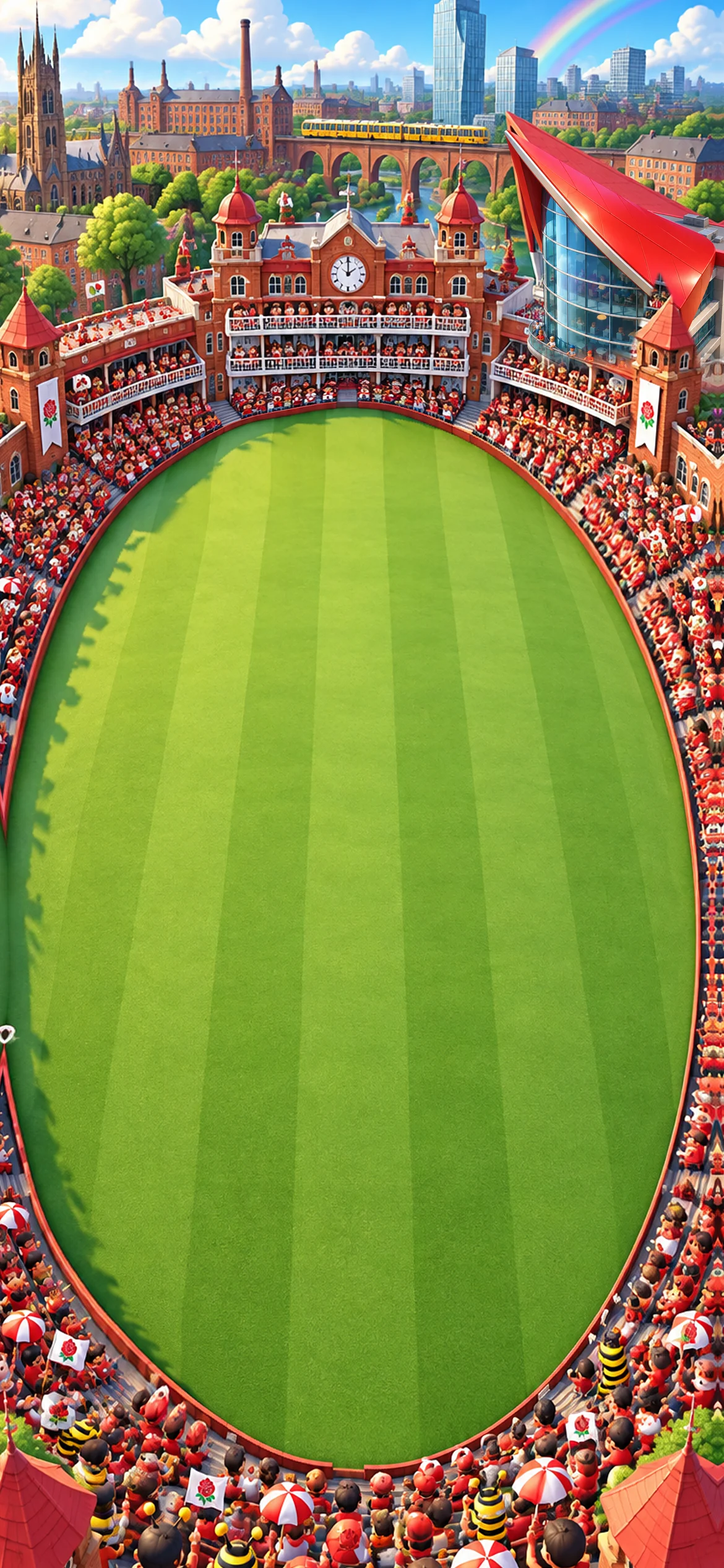
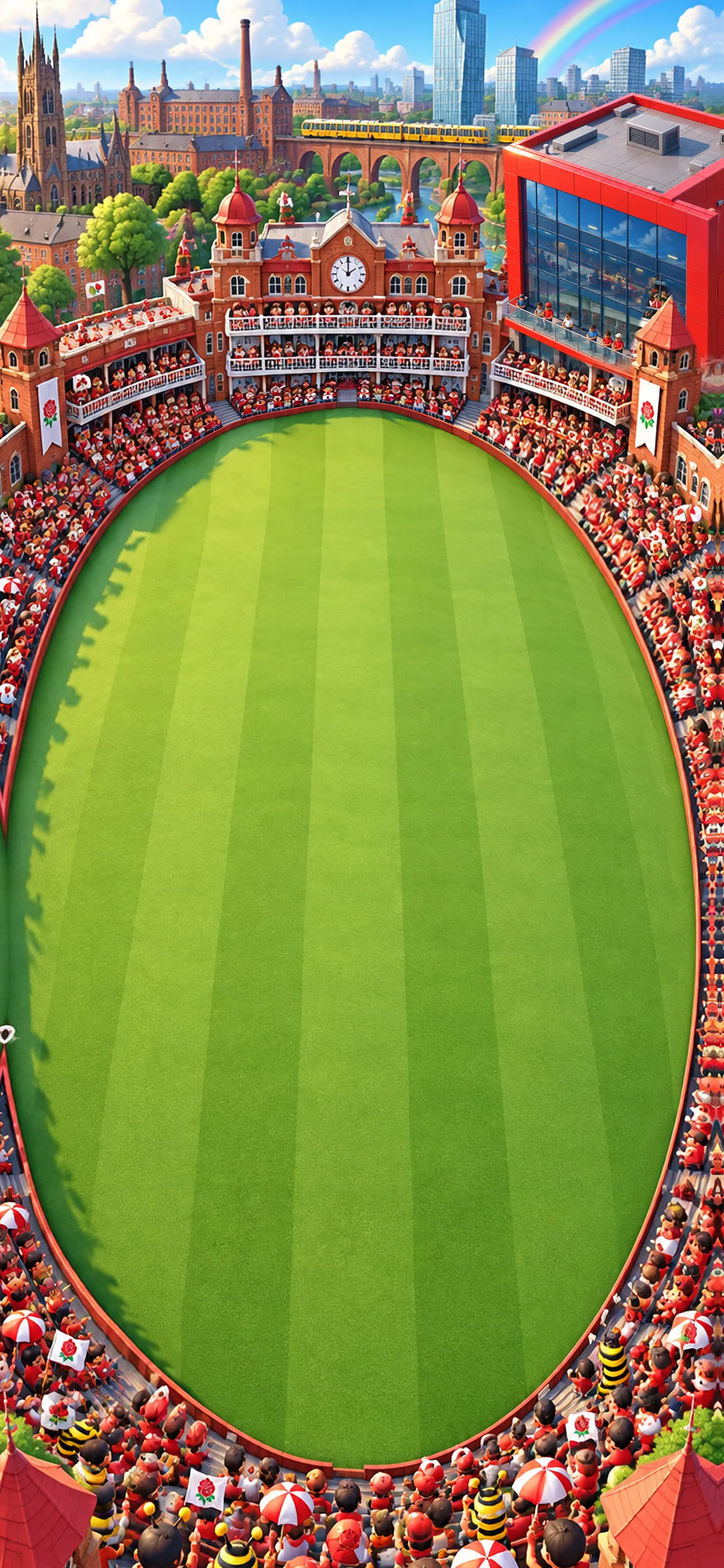
Old Trafford: square-box Point, undistorted, cut off by the screen edge
Claude-Session: https://claude.ai/code/session_01EnXvJ6P6HcGRxjBSnYPdAU

Changed region(s): [[0.6769, 0.0624, 1.0, 0.2496]]

diff --git a/art/grounds/oldtrafford/point2.py b/art/grounds/oldtrafford/point2.py
@@ -2,7 +2,7 @@
 # its lower floors fading into the plate's own glass stand + fans, and the red-roofed corner tower put back on top.
 import numpy as np, cv2, sys
 from PIL import Image
-im=np.array(Image.open('raw/point_419-191.png').convert('RGB')).astype(float)
+im=np.array(Image.open((sys.argv[5] if len(sys.argv)>5 else 'raw/point_419-191.png')).convert('RGB')).astype(float)
 a=np.clip((np.sqrt(((im-[0,255,0])**2).sum(2))-45)/60,0,1); ex=np.clip(im[...,1]-np.maximum(im[...,0],im[...,2]),0,None); a=a*np.clip(1-ex/90,0,1)
 f=im.copy(); f[...,1]=np.minimum(f[...,1],np.maximum(f[...,0],f[...,2]))
 sp=Image.fromarray(np.dstack([f,cv2.erode((a*255).astype(np.uint8),np.ones((3,3),np.uint8))]).clip(0,255).astype(np.uint8)); sp=sp.crop(sp.getbbox())
@@ -10,6 +10,9 @@ x0,yb,w,keep=[int(v) for v in sys.argv[1:5]]   # left, bottom line, width, fract
 k=w/sp.width; sp=sp.resize((w,round(sp.height*k)),Image.LANCZOS); sp=sp.crop((0,0,w,round(sp.height*keep/100)))
 A=np.array(sp).astype(float); F=40; A[-F:,:,3]*=np.linspace(1,0,F)[:,None]; sp=Image.fromarray(A.astype(np.uint8))
 base=Image.open('plate_cam3.png').convert('RGBA'); orig=np.array(base).astype(float)
+b=orig.copy(); X0,X1,Y0,Y1,D,FF=800,880,160,250,90,12   # old painted roof tip poking out left of the new building: houses/sky from beside it
+src=b[Y0:Y1,X0-D:X1-D]; h,w=src.shape[:2]; wg=np.minimum(np.minimum(np.arange(w)[None,:]+1,w-np.arange(w)[None,:])/FF,np.minimum(np.arange(h)[:,None]+1,h-np.arange(h)[:,None])/FF).clip(0,1)[...,None]
+b[Y0:Y1,X0:X1]=b[Y0:Y1,X0:X1]*(1-wg)+src*wg; base=Image.fromarray(b.astype(np.uint8))
 base.alpha_composite(sp,(x0,yb-sp.height)); out=np.array(base).astype(float)
 # corner tower back on top (its red cone + brick shaft), from the original plate
 tm=np.zeros(out.shape[:2],np.float32); cv2.fillPoly(tm,[np.array([[1065,440],[1020,560],[1020,780],[1125,780],[1125,560]])],1); tm=cv2.GaussianBlur(tm,(0,0),2)[...,None]

diff --git a/art/grounds/ART_PACKAGE.md b/art/grounds/ART_PACKAGE.md
@@ -73,3 +73,4 @@ Nov 2 v2 (Joe: 'the Point red box is terrible'): cartoon Point building generate
 Nov 2 v3 (Joe: Camera 2 in the agreed spec style): full PROMPTS.md template with the Camera 2 MEDIUM-CLOSE line → Figma 421:191 (420:191 rejected: field painted edge to edge, giant near-end crowd). Ratio 1.82 → build_clean squash .91, right 60 px padded by reflection → snap_ring max 69 → measure max 1.4. v2 (Camera 4 + new Point) kept as plate_v2.png.
 Nov 2 v4 (Joe: 'what happened to the closer camera / same view as the wizard scene'): Wizard is Camera 3 MEDIUM in the spec. Full template with the Camera 3 line + a STADIUM SHAPE line (one continuous curved bowl hugging the oval, tiered rows in 3/4, red-brick corner towers, pavilion + Point rising at the far end, Manchester band beyond) → Figma 422:191 → build_clean → snap_ring → measure max 9.0 p90 3.0 (painted field nearly full width, so side stands are thin, as on Wizard).
 Nov 2: cam3 plate's painted Point was a smeared slab — art/grounds/oldtrafford/point2.py lays the standalone cartoon Point (419:191) over it, lower floors fading into the painted glass stand, corner tower kept on top.
+Nov 2 (Joe: 'the Point is a big square box building … if it doesn't fit, cut some off'): boxy red Point generated alone (Figma 423:191), scaled uniformly (no distortion), placed by point2.py so its right side runs off the screen edge; old roof tip patched from beside it.
